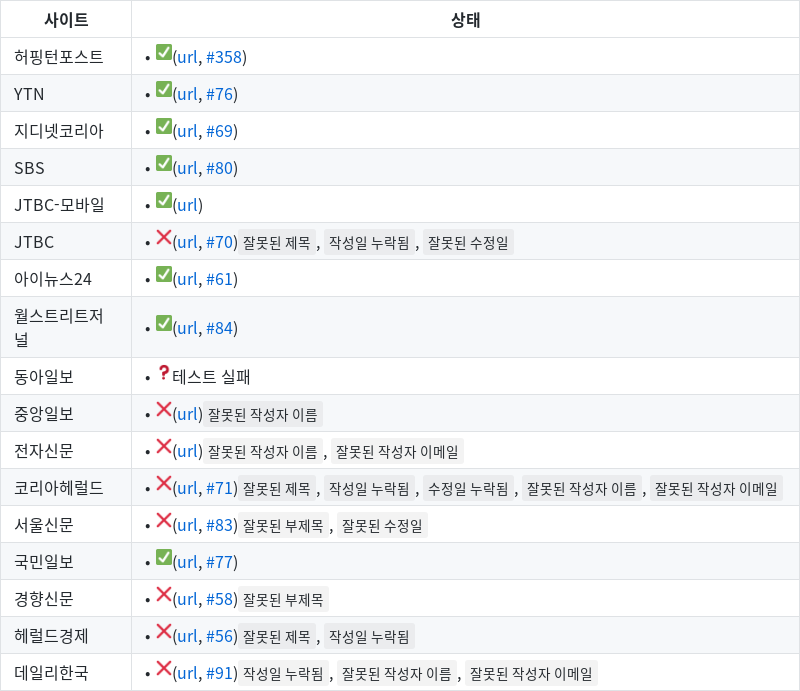
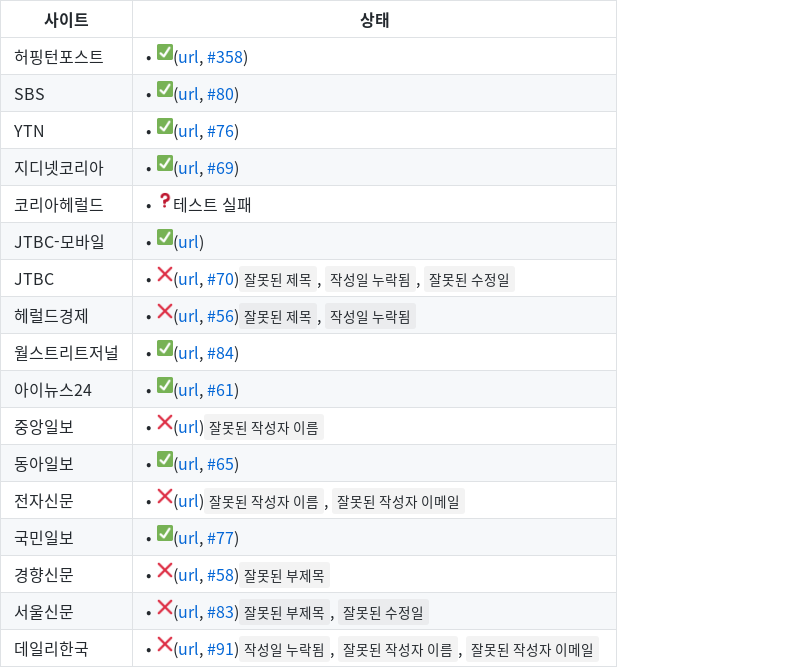
Sun Oct  4 00:51:35 UTC 2020

diff --git a/health-check.md b/health-check.md
@@ -1,19 +1,19 @@
 | 사이트 | 상태 |
 |------|-------|
 | 허핑턴포스트 | • ✅([url](https://www.huffingtonpost.kr/entry/story_kr_5d36a558e4b004b6adb5029c?9e4), [#358](https://github.com/disjukr/just-news/issues/#358)) |
+| SBS | • ✅([url](https://news.sbs.co.kr/news/endPage.do?news_id=N1002697236), [#80](https://github.com/disjukr/just-news/issues/#80)) |
 | YTN | • ✅([url](https://www.ytn.co.kr/_ln/0103_201411190800481989), [#76](https://github.com/disjukr/just-news/issues/#76)) |
 | 지디넷코리아 | • ✅([url](http://www.zdnet.co.kr/view/?no=20141104074223), [#69](https://github.com/disjukr/just-news/issues/#69)) |
-| SBS | • ✅([url](https://news.sbs.co.kr/news/endPage.do?news_id=N1002697236), [#80](https://github.com/disjukr/just-news/issues/#80)) |
+| 코리아헤럴드 | • ❓테스트 실패 |
 | JTBC-모바일 | • ✅([url](http://mnews.jtbc.joins.com/News/Article.aspx?news_id=NB11866214)) |
 | JTBC | • ❌([url](http://news.jtbc.joins.com/article/article.aspx?news_id=NB10639468), [#70](https://github.com/disjukr/just-news/issues/#70))`잘못된 제목`, `작성일 누락됨`, `잘못된 수정일` |
-| 아이뉴스24 | • ✅([url](http://www.inews24.com/view/860573), [#61](https://github.com/disjukr/just-news/issues/#61)) |
+| 헤럴드경제 | • ❌([url](http://news.heraldcorp.com/view.php?ud=20141023000202&md=20141023091209_BK), [#56](https://github.com/disjukr/just-news/issues/#56))`잘못된 제목`, `작성일 누락됨` |
 | 월스트리트저널 | • ✅([url](https://realtime.wsj.com/korea/2014/10/13/%EB%B0%95%EC%9B%90%EC%88%9C-%EC%84%9C%EC%9A%B8%EC%8B%9C%EC%9E%A5-%EB%AF%B8%EA%B5%AD-%EC%96%B8%EB%A1%A0%EC%97%90-%EB%8F%99%EC%84%B1%EA%B2%B0%ED%98%BC-%EC%A7%80%EC%A7%80-%EB%B0%9C%EC%96%B8/), [#84](https://github.com/disjukr/just-news/issues/#84)) |
-| 동아일보 | • ❓테스트 실패 |
+| 아이뉴스24 | • ✅([url](http://www.inews24.com/view/860573), [#61](https://github.com/disjukr/just-news/issues/#61)) |
 | 중앙일보 | • ❌([url](https://news.joins.com/article/23621286))`잘못된 작성자 이름` |
+| 동아일보 | • ✅([url](http://news.donga.com/3/03/20141107/67723014/1), [#65](https://github.com/disjukr/just-news/issues/#65)) |
 | 전자신문 | • ❌([url](http://www.etnews.com/20191031000370?mc=ns_003_00006))`잘못된 작성자 이름`, `잘못된 작성자 이메일` |
-| 코리아헤럴드 | • ❌([url](http://khnews.kheraldm.com/view.php?ud=20141111001137&md=20141111180830_BK&kr=1), [#71](https://github.com/disjukr/just-news/issues/#71))`잘못된 제목`, `작성일 누락됨`, `수정일 누락됨`, `잘못된 작성자 이름`, `잘못된 작성자 이메일` |
-| 서울신문 | • ❌([url](http://seoul.co.kr/news/newsView.php?id=20141204500025), [#83](https://github.com/disjukr/just-news/issues/#83))`잘못된 부제목`, `잘못된 수정일` |
 | 국민일보 | • ✅([url](http://news.kmib.co.kr/article/view.asp?arcid=0008864720&code=61121111), [#77](https://github.com/disjukr/just-news/issues/#77)) |
 | 경향신문 | • ❌([url](http://biz.khan.co.kr/khan_art_view.html?artid=201410311921301&code=920100&med=khan), [#58](https://github.com/disjukr/just-news/issues/#58))`잘못된 부제목` |
-| 헤럴드경제 | • ❌([url](http://news.heraldcorp.com/view.php?ud=20141023000202&md=20141023091209_BK), [#56](https://github.com/disjukr/just-news/issues/#56))`잘못된 제목`, `작성일 누락됨` |
+| 서울신문 | • ❌([url](http://seoul.co.kr/news/newsView.php?id=20141204500025), [#83](https://github.com/disjukr/just-news/issues/#83))`잘못된 부제목`, `잘못된 수정일` |
 | 데일리한국 | • ❌([url](http://daily.hankooki.com/lpage/politics/201412/dh20141219103740137430.htm), [#91](https://github.com/disjukr/just-news/issues/#91))`작성일 누락됨`, `잘못된 작성자 이름`, `잘못된 작성자 이메일` |
